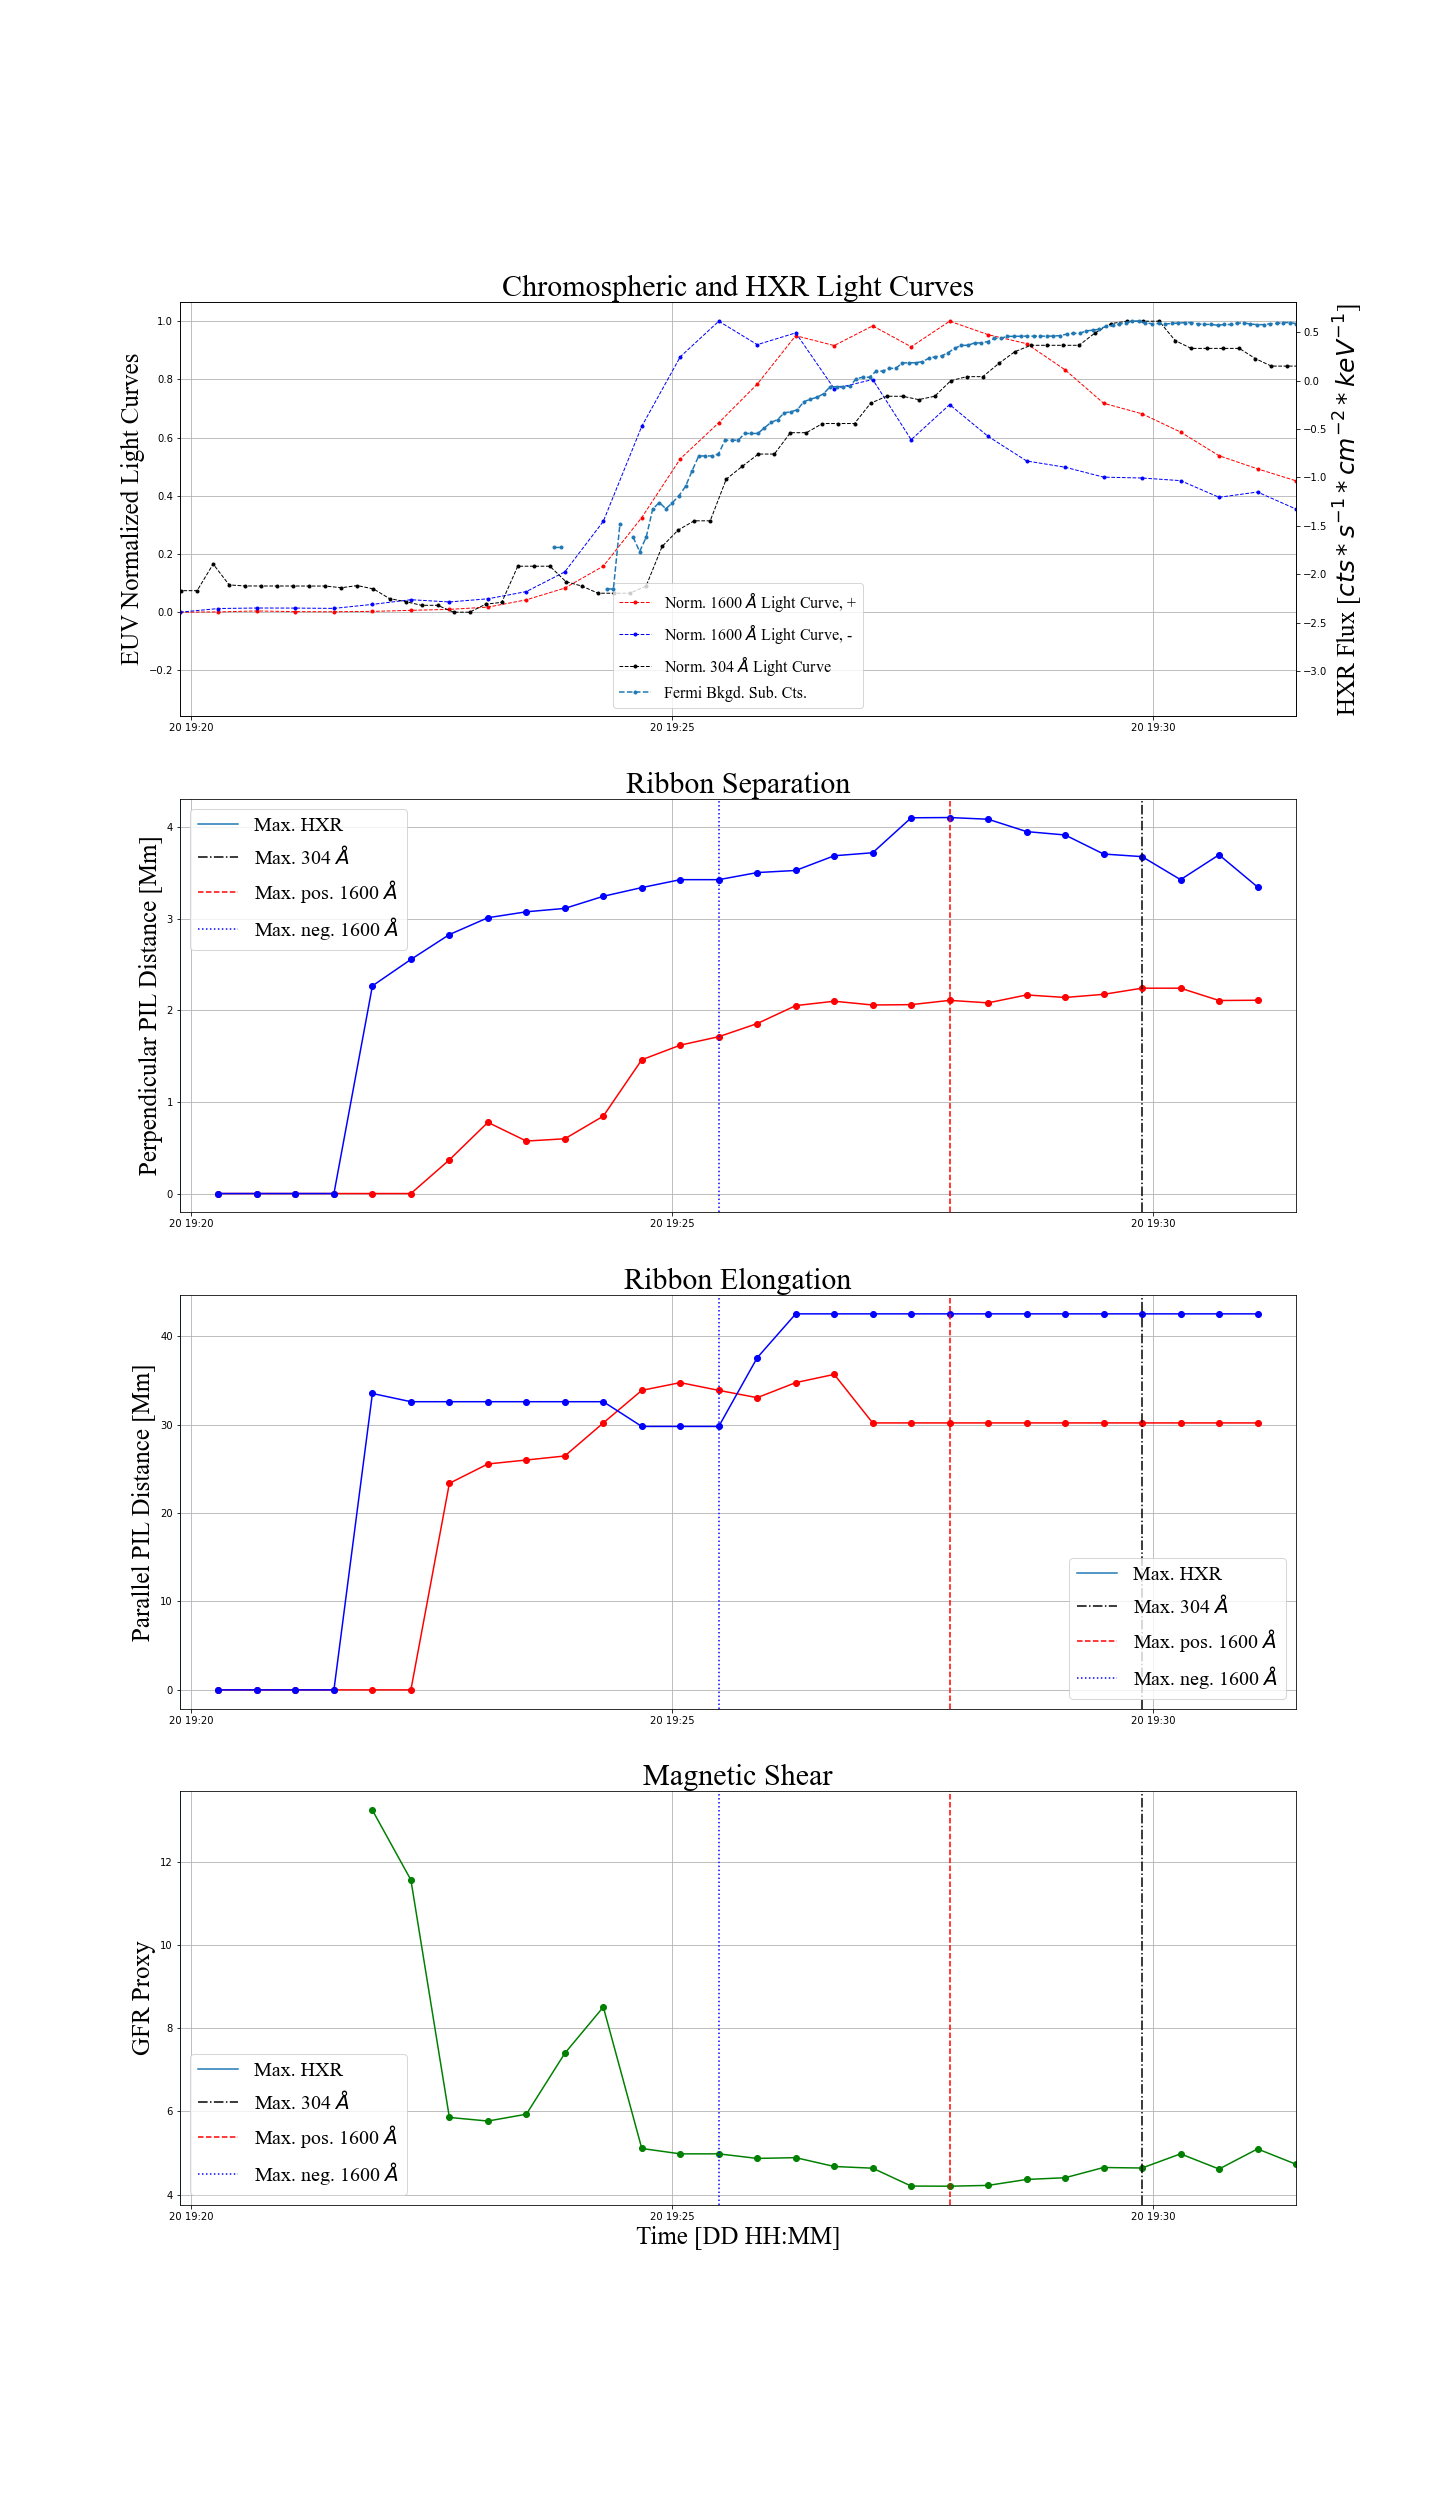
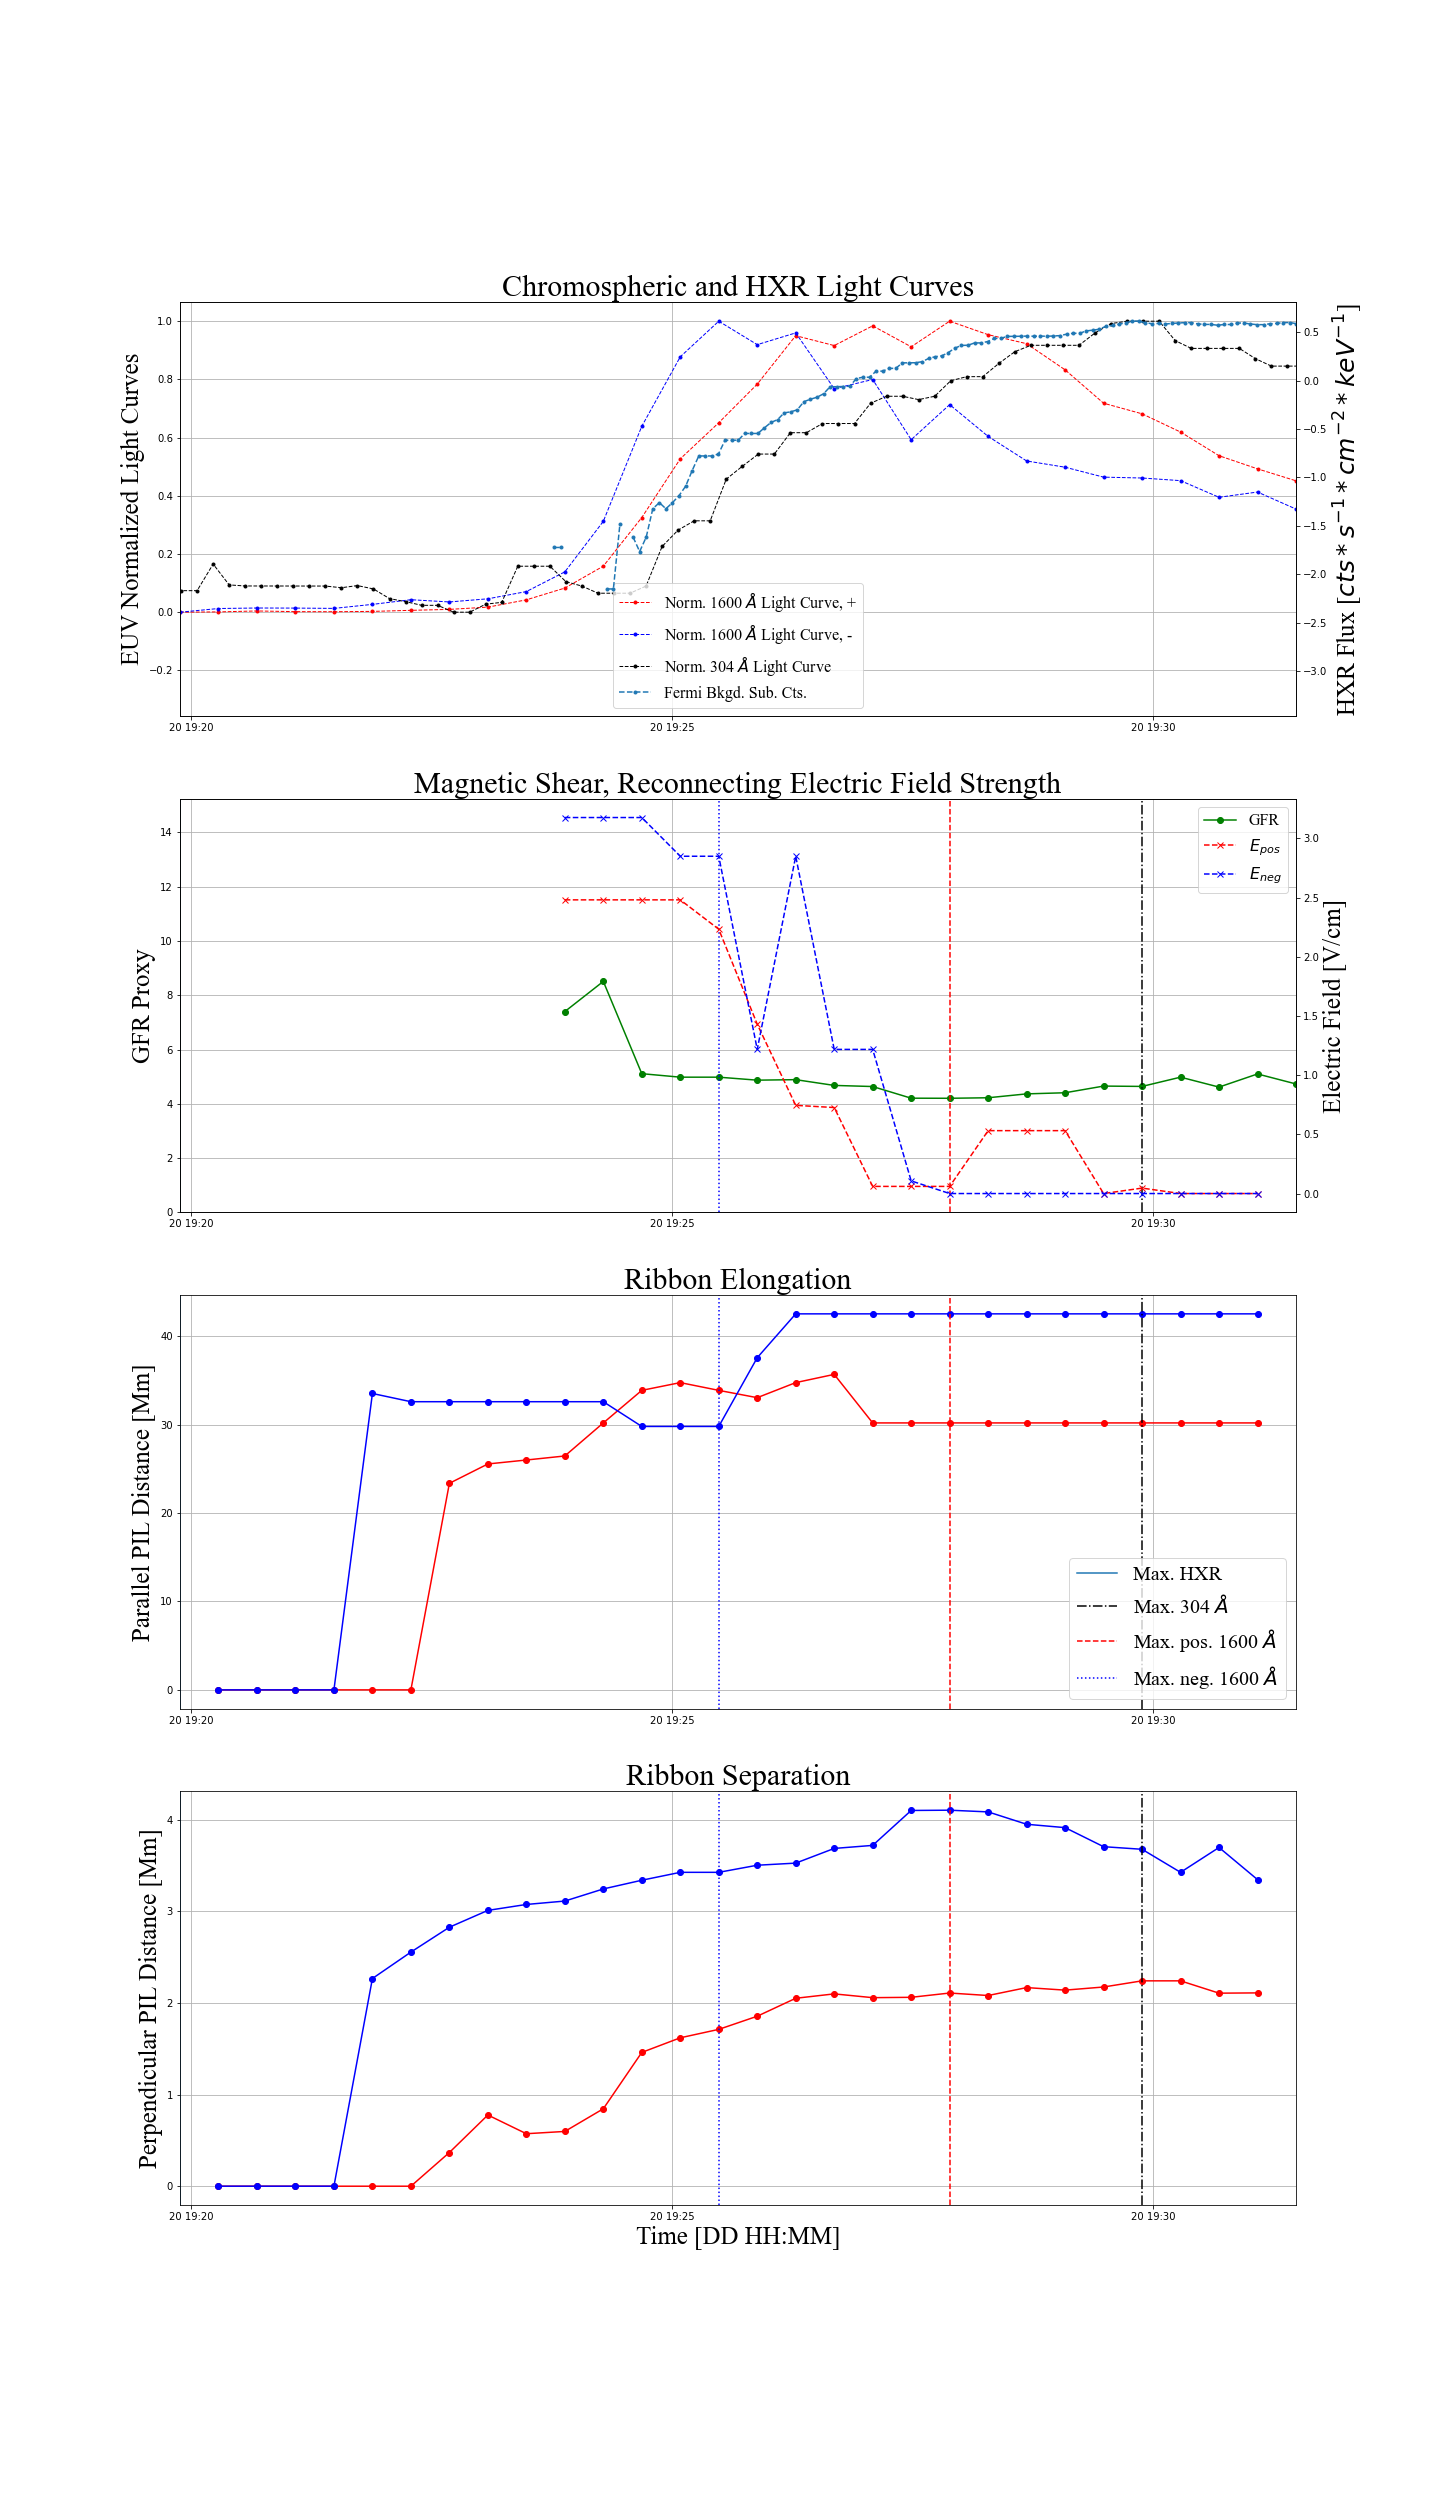
high1 four-panel edit

diff --git a/mid2_process.py b/mid2_process.py
@@ -291,7 +291,13 @@ raw_hxr_sum, cspec_hxr_sum, fermitimes = fl_funcs.process_fermi(daystr, mostr,
 
 indstrt_sep = 1
 indstrt_elon = 1
-gfr_trans = 1
+gfr_trans = 10
+
+E_pos, E_neg, E_rat, time_E = fl_funcs.E_field_det(conv_f, distpos_med,
+                                                   distneg_med, timelab, 
+                                                   hmi_dat, pos_rem, neg_rem, 
+                                                   flnum, dt1600, times,
+                                                   startind=gfr_trans)
 
 fl_funcs.plt_fourpanel(times, right_gfr, left_gfr, flnum, dt1600, time304,
                   filter_304, lens_pos_Mm, lens_neg_Mm, distpos_Mm, distneg_Mm,
@@ -302,10 +308,6 @@ fl_funcs.plt_fourpanel(times, right_gfr, left_gfr, flnum, dt1600, time304,
                   sepperiod_start_neg, sepperiod_end_neg, exp_ind,
                   s304, e304, pos1600, neg1600, dn1600, indstrt_elon, 
                   indstrt_sep, fermitimes, raw_hxr_sum, cspec_hxr_sum,
-                  gfr_trans, low_hxr=15500, high_hxr=16500,  period_flag = 0)
+                  gfr_trans,  E_pos, E_neg, time_E, 
+                  low_hxr=15500, high_hxr=16500,  period_flag = 0)
 
-E_pos, E_neg, E_rat, time_E = fl_funcs.E_field_det(conv_f, distpos_med,
-                                                   distneg_med, timelab, 
-                                                   hmi_dat, pos_rem, neg_rem, 
-                                                   flnum, dt1600, times,
-                                                   startind=1)

diff --git a/high1_process.py b/high1_process.py
@@ -292,7 +292,13 @@ raw_hxr_sum, cspec_hxr_sum, fermitimes = fl_funcs.process_fermi(daystr, mostr,
 
 indstrt_sep = 1
 indstrt_elon = 1
-gfr_trans = 5
+gfr_trans = 8
+
+E_pos, E_neg, E_rat, time_E = fl_funcs.E_field_det(conv_f, distpos_med,
+                                                   distneg_med, timelab, 
+                                                   hmi_dat, pos_rem, neg_rem, 
+                                                   flnum, dt1600, times,
+                                                   startind=gfr_trans)
 
 fl_funcs.plt_fourpanel(times, gfr, gfr, flnum, dt1600, time304,
                   filter_304, lens_pos_Mm, lens_neg_Mm, distpos_Mm, distneg_Mm,
@@ -303,10 +309,6 @@ fl_funcs.plt_fourpanel(times, gfr, gfr, flnum, dt1600, time304,
                   sepperiod_start_neg, sepperiod_end_neg, exp_ind,
                   s304, e304, pos1600, neg1600, dn1600, indstrt_elon, 
                   indstrt_sep, fermitimes, raw_hxr_sum, cspec_hxr_sum,
-                  gfr_trans, low_hxr=3500, high_hxr=4500,  period_flag = 0)
+                  gfr_trans, E_pos, E_neg, time_E, 
+                  low_hxr=3500, high_hxr=4500,  period_flag = 0)
 
-E_pos, E_neg, E_rat, time_E = fl_funcs.E_field_det(conv_f, distpos_med,
-                                                   distneg_med, timelab, 
-                                                   hmi_dat, pos_rem, neg_rem, 
-                                                   flnum, dt1600, times,
-                                                   startind=5)
